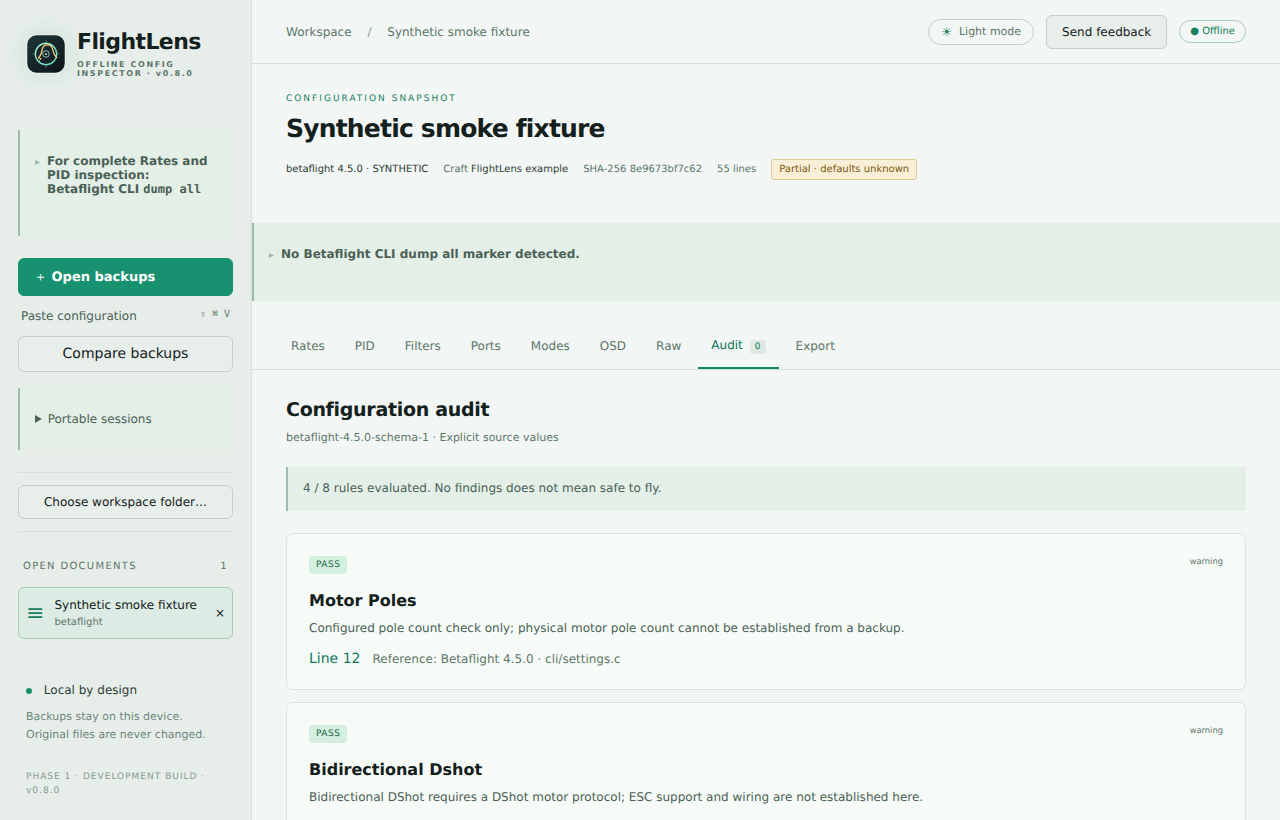
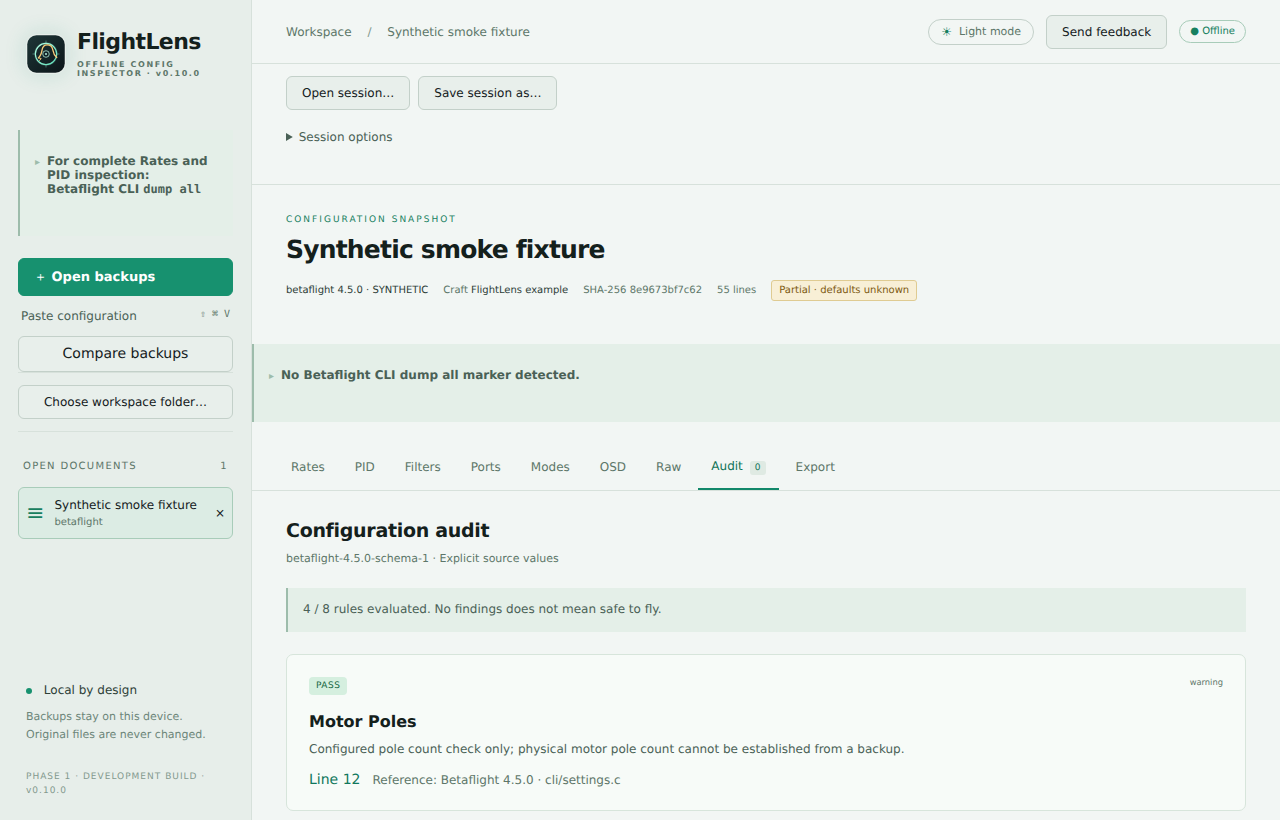
Release FlightLens 0.10.1
Move session controls into the main inspection and comparison area.

diff --git a/src/App.tsx b/src/App.tsx
@@ -215,41 +215,6 @@ export default function App() {
         <button onClick={() => setComparing(!comparing)} aria-pressed={comparing}>
           {comparing ? "Back to inspector" : "Compare backups"}
         </button>
-        <details className="notice" aria-label="Portable sessions">
-          <summary>Portable sessions</summary>
-          <p>Save file-backed CLI and recognized firmware text backups, tab and theme. Pasted backups and Blackbox files must be closed before saving. Workspace folders are restored. Rate/PID profiles are shared between inspection and comparison and saved with comparison selections. Opening adds matching backups to this workspace.</p>
-          <button disabled={!desktop || busy} onClick={() => void openSession(false)}>Open session…</button>
-          <button disabled={!desktop || busy || !canRetrySession} onClick={() => void openSession(true)}>Retry session</button>
-          <button disabled={!desktop || busy || !canRetrySession} onClick={() => void openSession(true, true)}>Relink session backups…</button>
-          <small>Relink retries the saved session and asks for identical replacements for unavailable backups. Save As keeps the new locations.</small>
-          <p>Retry rereads the last confirmed session and restores its saved selections.</p>
-          <button disabled={!desktop || busy} onClick={() => void run(async () => {
-            setSessionStatus("");
-            const selections = useSelections.getState();
-            const documentIds = workspace.documents.map((d) => d.id);
-            const comparison = comparing ? selections.comparison ?? {
-              documents: Array.from(repository.current.values()).flatMap((a) => a.kind === "config" ? [a.document.id] : []).slice(0, 2),
-              baseline: null,
-            } : null;
-            if (comparison && (comparison.documents.filter(Boolean).length < 2 ||
-                comparison.documents.filter(Boolean).some((id) => !documentIds.includes(id)) ||
-                !comparison.documents[0] || !comparison.documents[1])) {
-              throw new Error("Select two or three available comparison backups before saving, or return to the inspector.");
-            }
-            const saved = await api.savePortableSession({
-              preserveUnavailableSelections,
-              documentIds, activeId: workspace.activeId, tab: workspace.tab, theme: theme.theme,
-              profiles: documentIds.map((documentId) => {
-                const artifact = repository.current.get(documentId);
-                const selected = selections.profiles[documentId] ?? (artifact?.kind === "config" ? defaultProfiles(artifact.document) : { rate: 0, pid: 0 });
-                return { documentId, rateProfile: selected.rate, pidProfile: selected.pid };
-              }),
-              comparison: comparison ? { ...comparison, documents: comparison.documents.filter(Boolean) } : null,
-            });
-            setSessionStatus(saved ? "Saved session references to a new file." : "Session save cancelled.");
-          })}>Save session as…</button>
-          <label><input type="checkbox" disabled={busy} checked={preserveUnavailableSelections} onChange={(event) => setPreserveUnavailableSelections(event.target.checked)} /> Keep unavailable active/comparison selections when saving</label>
-        </details>
         <WorkspaceExplorer
           restoredPage={sessionWorkspace}
           disabled={!desktop || busy}
@@ -330,6 +295,45 @@ export default function App() {
             <span className="pill">● Offline</span>
           </div>
         </header>
+        <section className="session-controls" aria-label="Portable sessions">
+          <div className="session-actions">
+            <button disabled={!desktop || busy} onClick={() => void openSession(false)}>Open session…</button>
+            <button disabled={!desktop || busy} onClick={() => void run(async () => {
+              setSessionStatus("");
+              const selections = useSelections.getState();
+              const documentIds = workspace.documents.map((d) => d.id);
+              const comparison = comparing ? selections.comparison ?? {
+                documents: Array.from(repository.current.values()).flatMap((a) => a.kind === "config" ? [a.document.id] : []).slice(0, 2),
+                baseline: null,
+              } : null;
+              if (comparison && (comparison.documents.filter(Boolean).length < 2 ||
+                  comparison.documents.filter(Boolean).some((id) => !documentIds.includes(id)) ||
+                  !comparison.documents[0] || !comparison.documents[1])) {
+                throw new Error("Select two or three available comparison backups before saving, or return to the inspector.");
+              }
+              const saved = await api.savePortableSession({
+                preserveUnavailableSelections,
+                documentIds, activeId: workspace.activeId, tab: workspace.tab, theme: theme.theme,
+                profiles: documentIds.map((documentId) => {
+                  const artifact = repository.current.get(documentId);
+                  const selected = selections.profiles[documentId] ?? (artifact?.kind === "config" ? defaultProfiles(artifact.document) : { rate: 0, pid: 0 });
+                  return { documentId, rateProfile: selected.rate, pidProfile: selected.pid };
+                }),
+                comparison: comparison ? { ...comparison, documents: comparison.documents.filter(Boolean) } : null,
+              });
+              setSessionStatus(saved ? "Saved session references to a new file." : "Session save cancelled.");
+            })}>Save session as…</button>
+          </div>
+          <details>
+            <summary>Session options</summary>
+            <p>Save your open backups, profiles, comparison and workspace location for later. Sessions reference your backup files; they do not copy them. Close pasted backups and Blackbox files before saving.</p>
+            <button disabled={!desktop || busy || !canRetrySession} onClick={() => void openSession(true)}>Retry session</button>
+            <button disabled={!desktop || busy || !canRetrySession} onClick={() => void openSession(true, true)}>Relink session backups…</button>
+            <small>Relink retries the saved session and asks for identical replacements for unavailable backups. Save As keeps the new locations.</small>
+            <p>Retry rereads the last confirmed session and restores its saved selections.</p>
+            <label><input type="checkbox" disabled={busy} checked={preserveUnavailableSelections} onChange={(event) => setPreserveUnavailableSelections(event.target.checked)} /> Keep unavailable active/comparison selections when saving</label>
+          </details>
+        </section>
         {sessionStatus && <p className="notice" role="status" style={{ whiteSpace: "pre-wrap" }}>{sessionStatus}</p>}
         {error && (
           <div className="error" role="alert">

diff --git a/tests/three-comparison.spec.ts b/tests/three-comparison.spec.ts
@@ -243,7 +243,7 @@ test("portable session round-trips graph order, baseline and profiles", async ({
   await page.getByLabel("Rate profile A", { exact: true }).selectOption("1");
   const pid = String(fixtures[1].artifact.document.pidProfiles.at(-1));
   await page.getByLabel("PID profile B", { exact: true }).selectOption(pid);
-  await page.getByText("Portable sessions", { exact: true }).click();
+  await page.getByText("Session options", { exact: true }).click();
   await page.getByRole("button", { name: "Save session as…" }).click();
   await expect(
     page.getByRole("status").filter({ hasText: "Saved session references" }),

diff --git a/src/styles.css b/src/styles.css
@@ -396,6 +396,28 @@ kbd {
   color: var(--text-soft);
   font-size: 12px;
 }
+.session-controls {
+  padding: 12px 34px;
+  border-bottom: 1px solid var(--border);
+  color: var(--text-soft);
+  font-size: 12px;
+}
+.session-actions {
+  display: flex;
+  flex-wrap: wrap;
+  gap: 8px;
+  margin-bottom: 8px;
+}
+.session-controls summary {
+  cursor: pointer;
+}
+.session-controls details button {
+  margin: 0 8px 8px 0;
+}
+.session-controls details small,
+.session-controls details label {
+  display: block;
+}
 .slash {
   padding: 0 12px;
   color: var(--text-fainter);

diff --git a/tests/portable-session.spec.ts b/tests/portable-session.spec.ts
@@ -94,7 +94,7 @@ test("portable session controls preserve state on cancel and report partial rest
     };
   });
   await page.goto("/");
-  await page.getByText("Portable sessions", { exact: true }).click();
+  await page.getByText("Session options", { exact: true }).click();
   await expect(
     page.getByRole("button", { name: "Retry session", exact: true }),
   ).toBeDisabled();

diff --git a/TODO.md b/TODO.md
@@ -37,7 +37,8 @@ in AGENTS.md and the release policy still apply.
 - Validate Phase 2 item 5 (released in 0.9.0): recursive workspace explorer. Check native
   folder selection and removable-drive disconnect/reconnect on Windows/macOS.
 - Validate Phase 2 item 6 (released in 0.9.0): reference-only
-  portable sessions. Native Windows/macOS checks remain under item 8; see
+  portable sessions, including the main-area session controls in inspector and comparison.
+  Native Windows/macOS checks remain under item 8; see
   [the completion boundary](docs/portable-sessions.md#item-6-completion-boundary).
 - Manually check the new comparison view in packaged Windows/macOS builds.
 - Manually check the feedback hand-off in packaged Windows/macOS builds, including

diff --git a/docs/portable-sessions.md b/docs/portable-sessions.md
@@ -1,5 +1,9 @@
 # Portable sessions
 
+Open session and Save session as are visible above the main content in both the
+inspector and Compare backups views. Session options contains retry, relinking
+and unavailable-selection recovery controls.
+
 Phase 2 item 6 is implemented in FlightLens 0.9.0 within the boundary below;
 packaged Windows/macOS validation remains pending. Native Save Session As/Open Session controls save
 file-backed CLI and recognized firmware text references and restore matching documents, workspace folder,

diff --git a/CHANGES.md b/CHANGES.md
@@ -6,6 +6,10 @@ Work that is committed but not yet released sits under `## Unreleased` and is
 renamed to the version when the release is cut. Purely internal work
 (formatting, comments, test-only refactors) is left out.
 
+## 0.10.1 — 2026-09-14
+
+- Move session controls from the sidebar into the main area in inspection and comparison. Keep Open and Save visible, with recovery controls under Session options.
+
 ## 0.10.0 — 2026-09-14
 
 - Fix empty throttle graphs for ProSpec on `4.5.3.KAACK_V19` and ProSpec2 on
